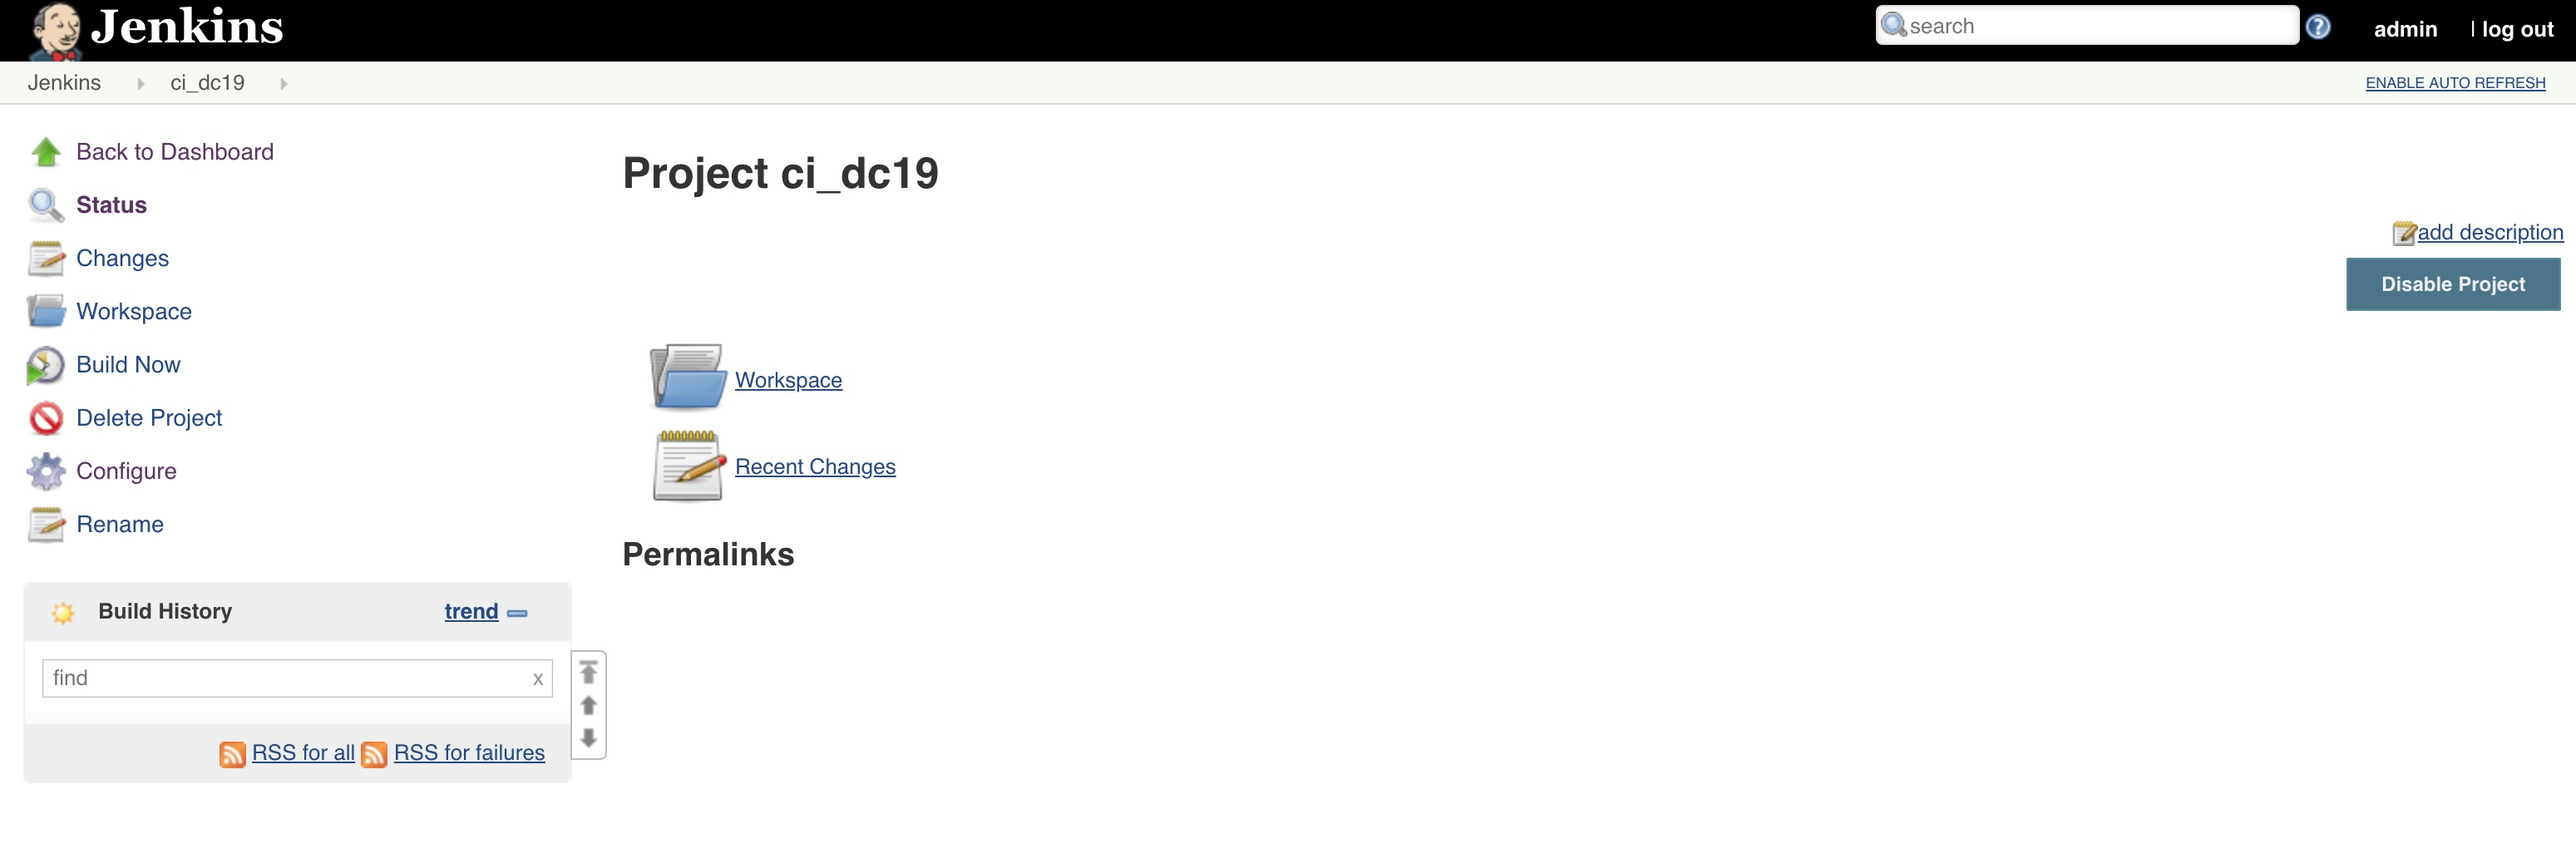
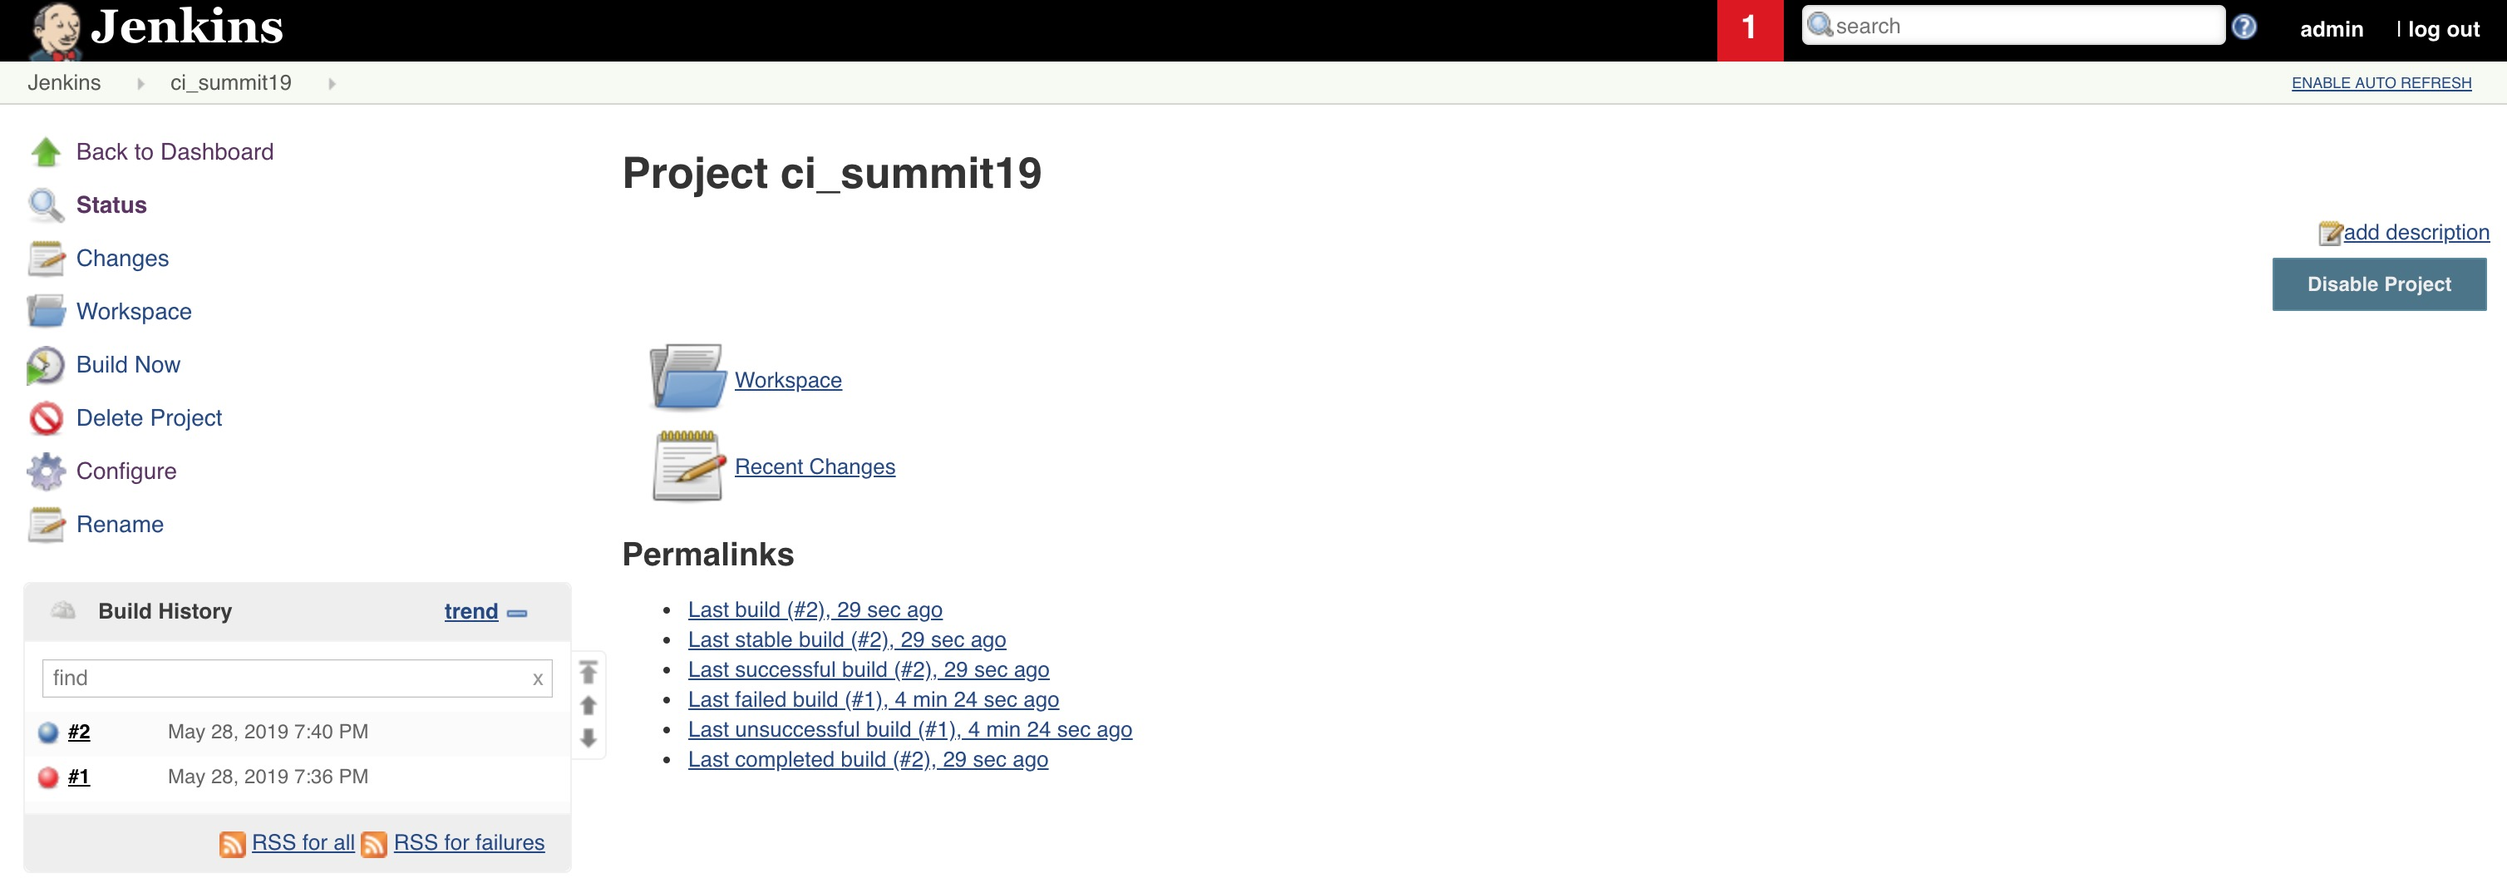
fairly clean

diff --git a/readme.md b/readme.md
@@ -39,12 +39,12 @@ In this lab you will integrate Docker Enterprise in to your development pipeline
 > * [Task 5 Pull / Tag / Push Docker Image](#task-5---pull--tag--push-docker-image)
 > * [Task 6 Review Scan Results](#task-6---review-scan-results)
 >   * [Task 6.1 Hide Vulnerabilities](#task-61---hide-vulnerabilities)
-> * [Task 7 Extend with Image Mirroring - Optional](#task-7---extend-with-image-mirroring)
-> * [Task 8 Docker Content Trust / Image Signing - Optional](#task-8---docker-content-trust--image-signing)
+> * [Task 7 Extend with Image Mirroring](#task-7---extend-with-image-mirroring)
+> * [Task 8 Docker Content Trust / Image Signing](#task-8---docker-content-trust--image-signing)
 > * [Task 9 Automate with Jenkins](#task-9---automate-with-jenkins)
 >   * [Task 9.1 Deploy Jenkins](#task-91---deploy-jenkins)
 >   * [Task 9.2 Plumb Jenkins](#task-92---plumb-jenkins)
->   * [Task 9.3 Webhooks - Optional](#task-93---webhooks)
+>   * [Task 9.3 Webhooks](#task-93---webhooks)
 > * [Conclusion](#conclusion)
 
 ## Document conventions
@@ -263,7 +263,7 @@ If we click back to `Tags` we can now see that the image does not have a critica
 
 ![critical](img/cve_no_critical.jpg)
 
-## Task 7 - Extend with Image Mirroring - Optional
+## Task 7 - Extend with Image Mirroring
 
 Docker Trusted Registry allows you to create mirroring policies for a repository. When an image gets pushed to a repository and meets a certain criteria, DTR automatically pushes it to repository in another DTR deployment or Docker Hub.
 
@@ -286,7 +286,7 @@ Since we already had an image that had the tag `promoted` we should see that the
 
 ![more](img/mirror3.jpg)
 
-## Task 8 - Docker Content Trust / Image Signing - Optional
+## Task 8 - Docker Content Trust / Image Signing
 
 Docker Content Trust/Notary provides a cryptographic signature for each image. The signature provides security so that the image requested is the image you get. Read [Notary's Architecture](https://docs.docker.com/notary/service_architecture/) to learn more about how Notary is secure. Since Docker Enterprise is "Secure by Default," Docker Trusted Registry comes with the Notary server out of the box.
 
@@ -436,27 +436,23 @@ In order to automate we need to deploy Jenkins. If you want I can point you to a
 5. One the password is entered click grey "X" in the upper right hand corner. This will cancel out of the installer.
   ![plugins](img/jenkins_plugins.jpg)
 
-9. And we are done installing Jenkins. Click `Start using Jenkins`
+6. And we are done installing Jenkins. Click `Start using Jenkins`
   ![finish](img/jenkins_finish.jpg)
 
 ### Task 9.2 - Plumb Jenkins
 
-Now that we have Jenkins setup and running we need to add 3 additional plugins - Blue Ocean, Generic Webhook Trigger and Pipeline:
+Now that we have Jenkins setup and running we need to add an "item".
 
-1. Click on `Manage Jenkins` --> `Manage Plugins` --> `Available` and filter/search for `Blue Ocean`, `Generic Webhook Trigger` and `Pipeline`. When you have found each one check the checkbox to the left of the plugin name to select for installation.
-
-2. Click on `Install without restart` and wait for the plugins to install. When all plugins have installed navigate back to the Jenkins homepage.
-
-3. Click on `New item` in the upper left.
+1. Click on `New item` in the upper left.
   ![newitem](img/jenkins_newitem.jpg)
 
-4. Enter a name like `ci_summit19`, click `Freestyle project` and then click `OK`.
+2. Enter a name like `ci_summit19`, click `Freestyle project` and then click `OK`.
   ![time](img/jenkins_item.jpg)
 
-5. Let's scroll down to the `Build` section. We will come back to the `Build Triggers` section in a bit. Now click `Add build step` --> `Execute shell`.
+3. Let's scroll down to the `Build` section. We will come back to the `Build Triggers` section in a bit. Now click `Add build step` --> `Execute shell`.
   ![build](img/jenkins_build.jpg)
 
-6. You will now see a text box. Past the following build script into the text box.
+4. You will now see a text box. Past the following build script into the text box.
 
     **Please replace the <DTR_URL> with your URL! `echo $DTR_URL` <-- `worker3`**
 
@@ -480,33 +476,32 @@ Now that we have Jenkins setup and running we need to add 3 additional plugins -
 
       Now scroll down and click `Save`.
 
-7. Now let's run the build. Click `Build now`.
+5. Now let's run the build. Click `Build now`.
   ![now](img/jenkins_buildnow.jpg)
 
-8. You can watch the output of the `Build` by clicking on the task number in the `Build History` and then selecting `Build Output`
+6. You can watch the output of the `Build` by clicking on the task number in the `Build History` and then selecting `Build Output`
   ![history](img/jenkins_bhistory.jpg)
 
-9. The console output will show you all the details from the script execution.
+7. The console output will show you all the details from the script execution.
   ![output](img/jenkins_output.jpg)
 
-10. Review the `ci`/`summit19` repository in DTR. You should now see a bunch of tags that have been promoted.
+8. Review the `ci`/`summit19` repository in DTR. You should now see a bunch of tags that have been promoted.
   ![supply](img/automated_supply.jpg)
 
-### Task 9.3 - Webhooks - Optional
+### Task 9.3 - Webhooks
 
 Now that we have Jenkins setup we can extend with webhooks. In Jenkins speak a webhook is simply a build trigger. Let's configure one.
 
 1. Navigate to Jenkins and click on the project/item called `ci_summit19` and click on `Configure` on the left hand side.
-  ![configure](img/jenkins_configure.jpg)
 
 2. Then scroll down to `Build Triggers`. Check the checkbox for `Trigger builds remotely` and enter a Token of `summit19_rocks`.  Scroll down and click `Save`.
   ![trigger](img/jenkins_triggers.jpg)
 
 3. Now in your browser goto YOUR `http://$DOCS_URL:8080/job/ci_summit19/build?token=summit19_rocks`
 
-    It should look like: `http://ip172-18-0-9-bis91vft0fgg00ctq3i0.direct.ee-beta2.play-with-docker.com:8080/job/ci_summit19/build?token=summit19_rocks`
+    It should look like: `http://ip172-18-0-8-bjmlj2h6u0dg00a2j7n0.direct.beta-hybrid.play-with-docker.com:8080/job/ci_summit19/build?token=summit19_rocks`
 
-4. Check DTR to verify the images were pushed. Then log into `https:hub.docker.com` to see if your images were mirrored.
+4. Check DTR to verify the images were pushed. Then log into `https://hub.docker.com` to see if your images were mirrored.
 
     ![hub_mirror](img/hub_mirror.jpg)
 
